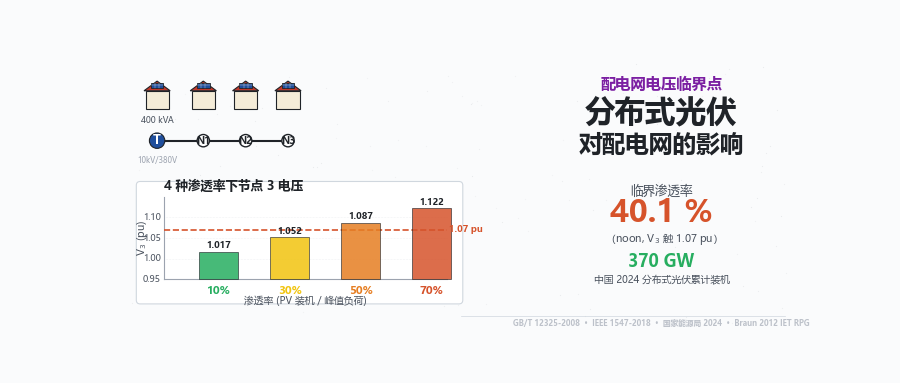
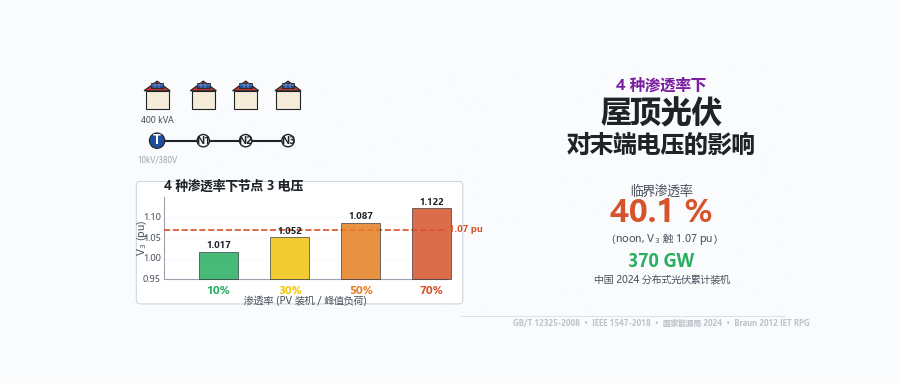
polish: env/17 全文按 env/16 标准重写 + 修模型 0.90 下限/Braun 引用、图 1-3 与封面标题

Changed region(s): [[0.6222, 0.201, 0.84, 0.4021]]

diff --git a/models/pv_distribution.py b/models/pv_distribution.py
@@ -89,6 +89,13 @@ References (all parameters verified by web lookup):
     - 本文用前者（与电压越限直接相关）
     参考：IEA PVPS 报告系列、IEEE 1547 评估指南
 
+[8] Braun M 等，2012《"Embedded Generation" German LV network voltage
+    with high PV penetration》
+    - IET Renewable Power Generation 6(6):604-614
+    - 高 PV 渗透率低压配电网实测：渗透率 50% 时电压峰值约 1.08-1.10 pu
+    - 用于校准模型 noon 场景（渗透率 50% → V3 ≈ 1.087 pu）
+    https://ietresearch.onlinelibrary.wiley.com/doi/10.1049/iet-rpg.2010.0125
+
 Usage:
     >>> grid = DistributionGrid()
     >>> v = grid.solve_peak()           # 4 节点电压（pu）
@@ -140,9 +147,9 @@ PENETRATION_DEFINITION = "capacity"   # 装机渗透率（本文）
 NOON_LOAD_FACTOR = 0.0
 
 # 电压限值（GB/T 12325-2008）
-VOLTAGE_UPPER_LIMIT_PU = 1.07   # 220 V 上限 235 V
-VOLTAGE_LOWER_LIMIT_PU = 0.93   # 220 V 下限 198 V
-# IEEE 1547-2018 上限 1.10 pu（持续运行）
+VOLTAGE_UPPER_LIMIT_PU = 1.07   # 220 V 上限 235 V = +7%
+VOLTAGE_LOWER_LIMIT_PU = 0.90   # 220 V 下限 198 V = -10%
+# IEEE 1547-2018 Category A 正常运行范围上限 1.10 pu（ride-through 不脱网）
 
 
 class DistributionGrid:

diff --git a/scripts/gen_cover_env_17.py b/scripts/gen_cover_env_17.py
@@ -1,5 +1,5 @@
 """
-Cover for article 17: 分布式光伏对配电网的影响 (4 种渗透率临界点).
+Cover for article 17: 4 种渗透率下，屋顶光伏对末端电压的影响.
 figsize=(9, 3.83), dpi=100, no bbox_inches='tight' (per CLAUDE.md).
 
 Style reference: cover_env_16.py (SEIR sister article).
@@ -222,15 +222,15 @@ def article_cover():
 
     # ── Right: 标题 + 关键数字 ───────────────────────────────────────
     # 副标题 (上方一行)
-    ax.text(7.10, 3.32, "配电网电压临界点",
+    ax.text(7.10, 3.32, "4 种渗透率下",
             fontsize=11, color="#7b1fa2", ha="center", va="center",
             fontweight="bold", zorder=5, style="italic")
 
     # 主标题
-    ax.text(7.10, 2.95, "分布式光伏",
+    ax.text(7.10, 2.95, "屋顶光伏",
             fontsize=22, color="#1f2328", ha="center", va="center",
             fontweight="bold", zorder=5)
-    ax.text(7.10, 2.55, "对配电网的影响",
+    ax.text(7.10, 2.55, "对末端电压的影响",
             fontsize=17, color="#1f2328", ha="center", va="center",
             fontweight="bold", zorder=5)
 

diff --git a/articles/env/17_分布式光伏对配电网的影响.md b/articles/env/17_分布式光伏对配电网的影响.md
@@ -1,25 +1,22 @@
 # 4 种渗透率下，屋顶光伏对末端电压的影响
 
-> 傍晚 7 点每户同时开灯开空调，电流原本单向从变压器流向用户；中午相反，屋顶 6 kW 光伏满发、家里没人用电，电流从屋顶倒灌进馈线，出现反向潮流。截至 2024 年底中国分布式光伏累计装机 370 GW、占全部光伏装机 42%（国家能源局，https://news.mysteel.com/a/25012408/1CA43634FFD3587B.html）。
+> 傍晚 7 点每户同时开灯开空调，电流单向从变压器流向用户；中午相反，屋顶 7 kW 光伏满发、家里没人用电，电流从屋顶倒灌进馈线，出现反向潮流。截至 2024 年底，中国分布式光伏累计装机 370 GW、占全部光伏装机 42%（国家能源局，2024）。屋顶光伏越装越多，配电网能不能接住？答案在一个百分比：光伏渗透率超过 40.1%，末端电压就会顶破 GB/T 12325 的 1.07 pu 上限。
 
-- 渗透率定义：PV 装机 / 峰值负荷；4 档 10% / 30% / 50% / 70%
-- 临界渗透率：40.1%（GB/T 12325-2008 上限 1.07 pu）
-- 3 个机制：节点电压升高 + 反向潮流 + 变压器过载
-- 3 个对策：OLTC 分接头 + PV 限出力 + 储能
+## 一、渗透率与两条电压上限
 
-## 一、4 种渗透率数据
-
-渗透率定义为 PV 装机 / 峰值负荷（"装机渗透率"），与中午电压越限直接相关。GB/T 12325-2008《电能质量 供电电压偏差》规定 220 V 单相供电允许偏差 +7% / -10%，即 198-235 V、0.90-1.07 pu（https://openstd.samr.gov.cn/bzgk/gb/newGbInfo?hcno=75EBBCF838AA40D281EDA854B8F63AD7）。IEEE 1547-2018 把 DER 持续运行区间收紧到 0.95-1.05 pu（https://standards.ieee.org/ieee/1547/5915/）。4 档 10% / 30% / 50% / 70% 演示从"几乎无影响"到"严重越限"的渐变。
+渗透率 = PV 装机 / 峰值负荷，这是"装机渗透率"，和中午的电压越限直接相关。GB/T 12325-2008《电能质量 供电电压偏差》规定 220 V 单相供电允许偏差 +7% / -10%，即 198-235 V、0.90-1.07 pu；IEEE 1547-2018 要求分布式电源在 0.88-1.10 pu 范围内 ride-through 不脱网，持续运行区间是 0.95-1.05 pu。后文两条线：1.07 pu 是 GB/T 上限，1.10 pu 是 IEEE 上限。本文用 10% / 30% / 50% / 70% 四档，演示从"几乎无影响"到"严重越限"的渐变。
 
 ## 二、物理基础：I·R 压降与反向潮流
 
-电流 I 流过馈线电阻 R 时产生压降 ΔV = I·R；电流反向，电压反向。中午 PV 满发时电流从末端流向变压器，馈线末端电压被反向电流"抬高"，高于变压器侧。节点 3（馈线末端）抬升最严重（承受下游累积电流），节点 1 最轻（只流过自身电流）。傍晚电流正向，末端电压跌。配电网传统设计默认单向，这两个时段刚好相反。
+电流 I 流过馈线电阻 R 时产生压降 ΔV = I·R；电流反向，电压就反向。中午 PV 满发时，电流从末端流向变压器，馈线末端的电压被反向电流"抬高"，高于变压器侧；傍晚电流正向，末端电压跌落。配电网传统设计默认单向，这两个时段刚好相反。
+
+反向电流哪一段最大？变压器侧那一段，它承载下游全部节点的净注入。但电压抬升是沿馈线叠加的：末端节点 3 把 3 段馈线的压降都叠起来，所以抬升最严重（V3 最高）；节点 1 只叠加第一段，抬升最轻。
 
 ## 三、4 节点简化模型
 
-保留关键物理，建 4 节点串型馈线：节点 0 是变压器低压侧（10 kV / 380 V，固定 1.0 pu，10 kV 侧视为无穷大母线）；节点 1、2、3 串成一条馈线，每段电阻 0.1 Ω、总长 1 km（LGJ-150 导线 0.3 Ω/km，https://www.docin.com/p-2725938030.html）。每节点代表 1 户居民：单户 PV 7 kW、单户峰值负荷 7 kW（JGJ 242-2011 D 套 8 kW 中位数）。变压器 400 kVA。
+保留关键物理，建 4 节点串型馈线：节点 0 是变压器低压侧（10 kV / 380 V，固定 1.0 pu，10 kV 侧视为无穷大母线）；节点 1、2、3 串成一条馈线，每段电阻 0.1 Ω、总长 1 km（LGJ-150 导线 0.3 Ω/km）。每节点代表 1 户居民：单户 PV 7 kW、单户峰值负荷 7 kW（JGJ 242-2011 D 套 8 kW 的中位数）。变压器 400 kVA。
 
-方程（单相 + 中性线返回，2 倍因子）：P_net_i = P_pv_i - P_load_i（注入为正）；I_k = -下游累积净功率 / V_phase；ΔV_k = -2 × I_k × R_k；V_n = V_0 + Σ ΔV。模型用 DC Power Flow 简化（实际 AC Power Flow 是 Newton-Raphson 非线性求解），保留 I·R 物理。代码 `models/pv_distribution.py` 含联网核实记录。
+方程（单相 + 中性线返回，2 倍因子）：P_net_i = P_pv_i - P_load_i（注入为正）；I_k = -下游累积净功率 / V_phase；ΔV_k = -2 × I_k × R_k；V_n = V_0 + Σ ΔV。模型用 DC Power Flow 简化（实际 AC Power Flow 是 Newton-Raphson 非线性求解），保留 I·R 物理。
 
 <div align="center"><img src="fig_env_17_schematic.png" alt="4 节点馈线结构" width="900"></div>
 <p align="center" style="color:#656d76;font-size:14px;margin-top:2px;">【图 1】4 节点馈线结构（渗透率 50%）：10 kV / 380 V 变压器 → 0.1 Ω × 3 段馈线 → 节点 1/2/3；中午电流反向使末端 V<sub>3</sub> = 1.087 pu 高于变压器侧。</p>
@@ -36,23 +33,27 @@
 二分搜索 `find_penetration_limit(max_voltage=1.07)` 给出临界渗透率 40.1%（noon 场景）。低于此，反向潮流不致电压越限；高于此需要工程对策。
 
 <div align="center"><img src="fig_env_17_4penetration_voltage.png" alt="4 种渗透率节点 3 电压" width="900"></div>
-<p align="center" style="color:#656d76;font-size:14px;margin-top:2px;">【图 2】4 种渗透率下节点 3 电压：30% 逼近 GB/T 12325 上限 1.07 pu（红色虚线），50%/70% 越过，70% 连 IEEE 1547 的 1.10 pu（橙色虚线）也越过。</p>
+<p align="center" style="color:#656d76;font-size:14px;margin-top:2px;">【图 2】4 种渗透率下节点 3 电压：30% 逼近 GB/T 12325 上限 1.07 pu（红色虚线），50% 越 GB/T 上限，70% 连 IEEE 1547 的 1.10 pu（橙色虚线）也越过。</p>
 
-24 小时演化：6 点 PV 启动前节点 3 跌至 0.95-0.96 pu（早高峰用电）；6-18 点 PV 出力时段（黄色阴影）4 条曲线分叉、12 点达峰；18 点 PV 归零、晚高峰升高，4 条曲线收敛跌至 0.93 pu 下限附近。
+拉长到 24 小时看（图 3）：6 点前早高峰，节点 3 跌到约 0.97 pu；6-18 点 PV 出力时段（黄色阴影）4 条曲线分叉、12 点前后达峰；18 点 PV 归零、晚高峰负荷上来，4 条曲线收敛，跌破 GB/T 下限 0.90 pu，最低约 0.83 pu。中午被反向潮流顶高、傍晚被晚高峰拉低，同一段馈线两个方向都可能越限。
 
 <div align="center"><img src="fig_env_17_12h_evolution.png" alt="24 小时电压演化" width="900"></div>
-<p align="center" style="color:#656d76;font-size:14px;margin-top:2px;">【图 3】节点 3 电压 24 小时演化：PV 出力时段（6-18 点）4 条曲线分叉达峰，渗透率 50% 超 1.07 pu；傍晚高峰收敛跌至 0.93 pu 下限附近。</p>
+<p align="center" style="color:#656d76;font-size:14px;margin-top:2px;">【图 3】节点 3 电压 24 小时演化：PV 出力时段（6-18 点）4 条曲线分叉达峰，渗透率 50% 起超 1.07 pu；傍晚 PV 归零 + 晚高峰，4 条曲线收敛跌破 GB/T 下限 0.90 pu（最低约 0.83）。</p>
 
-校准：Braun 等人 2012 年德国高 PV 渗透率低压配电网实测（IET Renew Power Gen 6(6):604-614, https://ietresearch.onlinelibrary.wiley.com/doi/10.1049/iet-rpg.2010.0125），渗透率 50% 时实测电压峰值约 1.08-1.10 pu，模型 1.087 pu 落在区间中段。
+模型对得上实测吗？Braun 等（2012）德国高 PV 渗透率低压配电网实测（IET Renew Power Generation）：渗透率 50% 时电压峰值约 1.08-1.10 pu，模型 1.087 pu 落在区间中段。
 
 ## 五、3 个对策
 
-工程上 3 类对策：
+电压被顶高了，怎么压回来？工程上 3 类对策：
 
 - OLTC 分接头调整：变压器带载调压，调节变比把 V<sub>0</sub> 整体降一点，让末端回到合格区间。老变压器改造需停电。
-- PV 限出力：逆变器软件设 P_max，按节点电压或时段动态降额。Braun 2012 实测：渗透率超 50% 时能压住电压越限，代价是 PV 发电量损失。
+- PV 限出力：逆变器软件设 P_max，按节点电压或时段动态降额。Braun 等（2012）实测：渗透率超 50% 时能压住电压越限，代价是 PV 发电量损失。
 - 储能 + 智能调度：电池中午存 PV、傍晚放电，提高自用率同时削峰。IEEE 1547-2018 已标准化储能的并网与 ride-through 要求。
 
-## 六、临界点 40.1% 是工程分水岭
+## 六、40.1% 意味着什么
 
-40.1% 是配电网免改造能容忍的渗透率上限。超过这一阈值，要么装储能、要么换更大变压器、要么限制 PV 出力。屋顶光伏继续铺开，配储比例决定着系统的稳定性。OLTC + 储能是工程上最常见的组合：在不放弃 PV 发电量的同时把末端电压压在合格区间。
+回到开头的问题：屋顶光伏装到多少，末端电压会顶破合格线？这个模型给的答案是 40.1%。低于它，反向潮流顶不动电压；超过它，要么装储能、要么换更大变压器、要么限制 PV 出力。OLTC + 储能是工程上最常见的组合：在不放弃 PV 发电量的同时，把末端电压压在合格区间。答案落在那条线上：40.1%。
+
+---
+
+模型参数、案例数据与完整文献来源见 `models/pv_distribution.py` 的代码注释（代码已上传项目仓库），想复现本文所有曲线的读者可自行下载查看。

diff --git a/plan.md b/plan.md
@@ -138,7 +138,7 @@
 | 14 | 一块农用地到底算不算污染？GB 15618-2018 的判定逻辑 | gb15618 | ✅ 已发（2026-08-03） |
 | 15 | GB 15618 自动化评价工具：不用装 Python，exe 双击就能跑 | gb15618 | ✅ 已发（2026-08-03；标题从「三种分发形态：库 + GUI + exe」改为现版，对非技术读者更友好） |
 | 16 | 感冒等病毒传染病传播模型：SEIR 与 R0 | 通用 | 📝 草稿 |
-| 17 | 分布式光伏对配电网的影响：4 种渗透率 | 通用 | 📝 草稿 |
+| 17 | 4 种渗透率下，屋顶光伏对末端电压的影响 | 通用 | 📝 草稿 |
 | — | ~~数据不出本机：用 Python + PyInstaller 把 GB 15618 评价做成 exe~~ | — | ❌ 已合并到 env/15（2026-08-02：env/17 复活后与 env/15 主题重复，合并保留 env/15） |
 | 18 | 三氯乙烯/四氯乙烯：地下水看不见的羽流 | 通用 | ✅ 已发 |
 | 19 | 西电东输：UHVDC 物理 | 通用 | 📝 草稿 |
